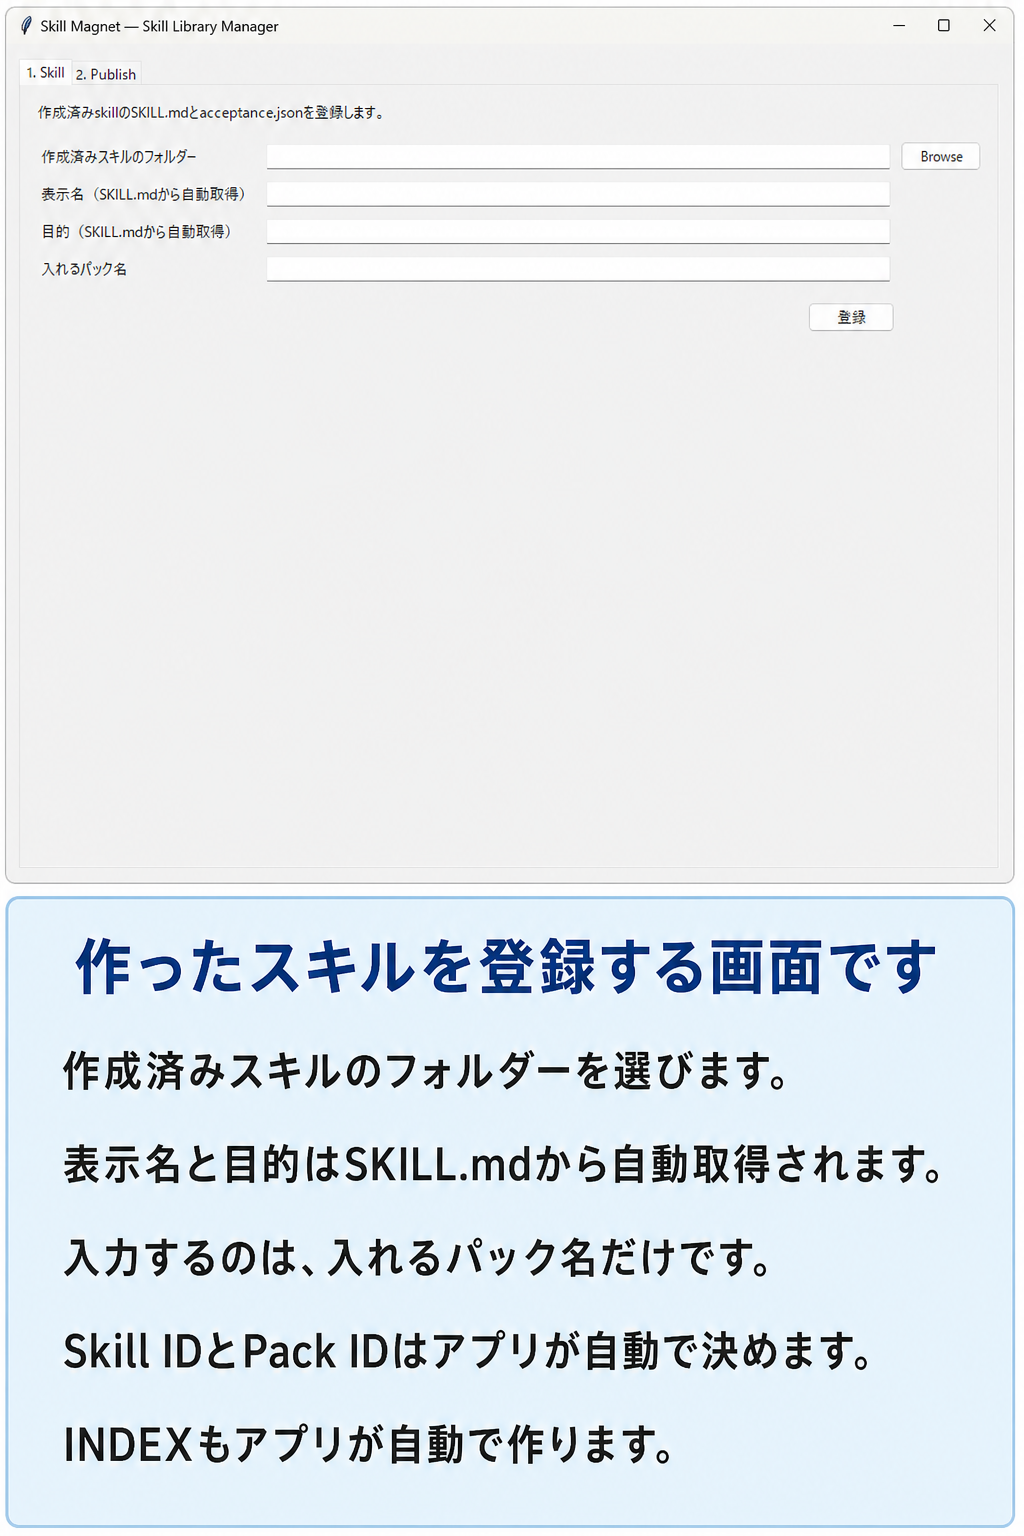
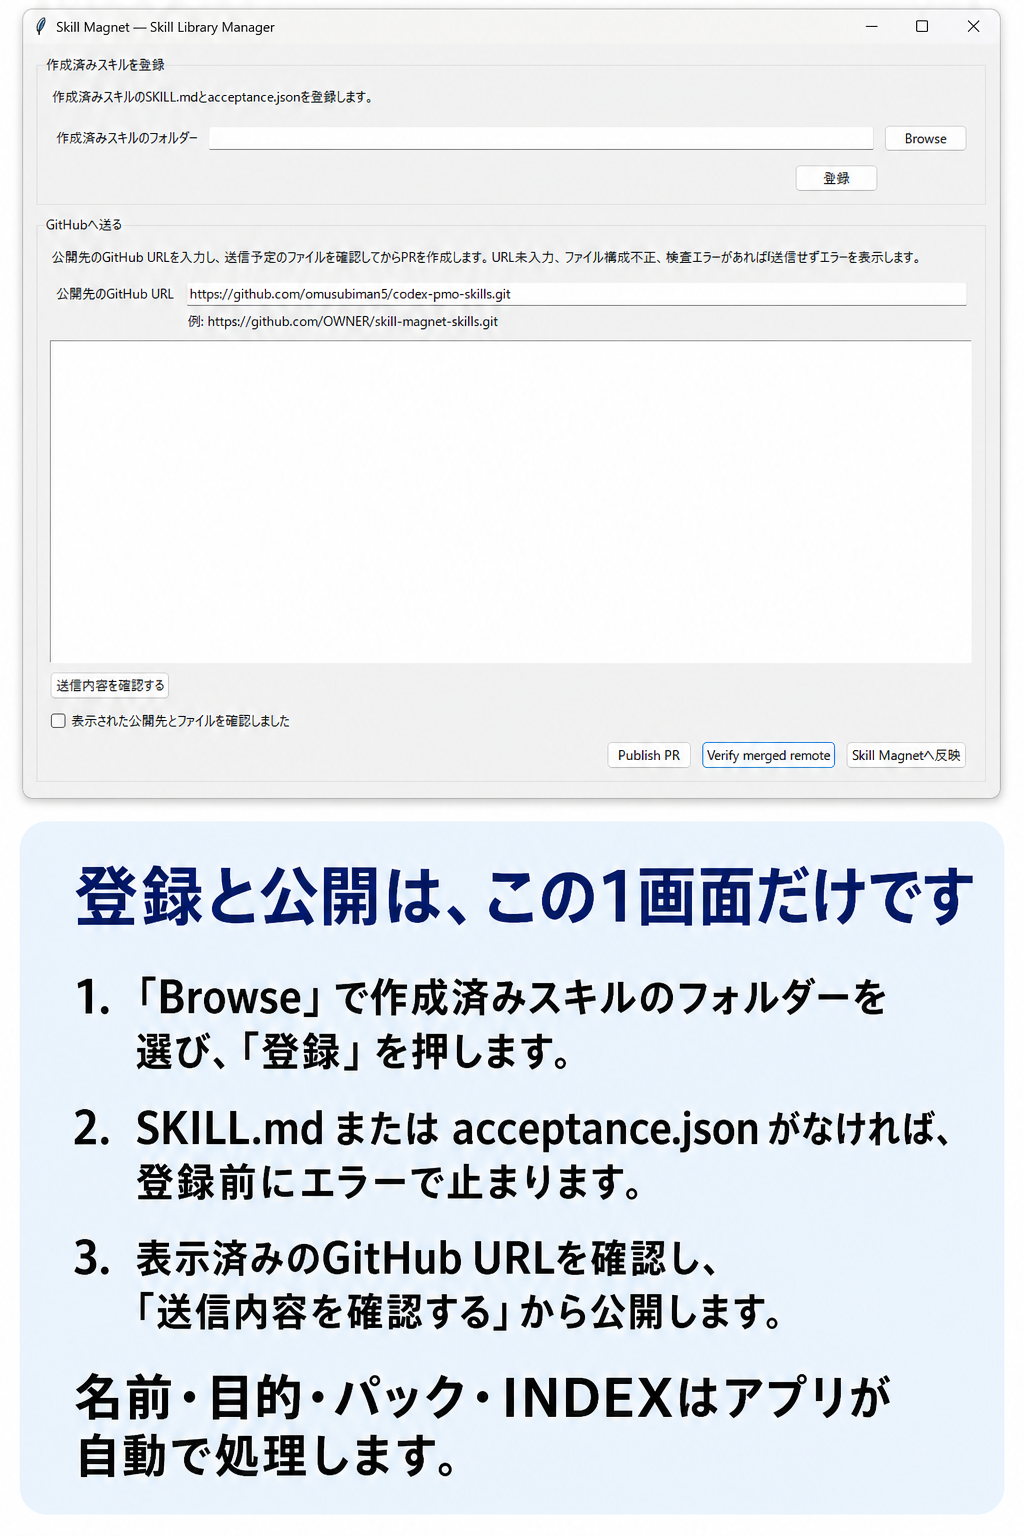
Simplify skill registration to one screen

diff --git a/src/skill_magnet/library_ui.py b/src/skill_magnet/library_ui.py
@@ -1,7 +1,6 @@
 from __future__ import annotations
 
 import json
-import hashlib
 import os
 import re
 from pathlib import Path
@@ -19,8 +18,7 @@ from .library_manager import (
 
 
 LIBRARY_WIZARD_STEPS = (
-    "1. Skill",
-    "2. Publish",
+    "Skill Library Manager",
 )
 
 
@@ -51,8 +49,10 @@ def require_registration_source(value: str) -> Path:
     if not value.strip():
         raise SkillMagnetError("登録する作成済みスキルのフォルダーを選択してください")
     source = Path(value).resolve()
-    if not (source / "SKILL.md").is_file() or not (source / "acceptance.json").is_file():
-        raise SkillMagnetError("選択したフォルダーにはSKILL.mdとacceptance.jsonが必要です")
+    if not (source / "SKILL.md").is_file():
+        raise SkillMagnetError("選択したフォルダーにSKILL.mdがありません")
+    if not (source / "acceptance.json").is_file():
+        raise SkillMagnetError("選択したフォルダーにacceptance.jsonがありません")
     return source
 
 
@@ -70,19 +70,6 @@ def skill_registration_metadata(source: Path) -> tuple[str, str, str]:
     display_name = display_match.group(1).strip() if display_match else skill_id
     purpose = metadata("description") or f"Imported skill: {display_name}"
     return skill_id, display_name, purpose
-
-
-def pack_id_for_display(repository: Path, display_name: str) -> str:
-    """Resolve or derive an internal pack ID without exposing it in the UI."""
-    name = display_name.strip()
-    if not name:
-        raise SkillMagnetError("入れるパック名を入力してください")
-    catalog = json.loads((repository / CATALOG_FILENAME).read_text(encoding="utf-8"))
-    for pack in catalog.get("packs", []):
-        if str(pack.get("display_name", "")).strip() == name:
-            return str(pack["id"])
-    slug = re.sub(r"[^a-z0-9]+", "-", name.lower()).strip("-")
-    return slug or f"pack-{hashlib.sha256(name.encode('utf-8')).hexdigest()[:12]}"
 
 
 def import_selected_skill(repository: Path, source: Path | None) -> bool:
@@ -124,11 +111,10 @@ def show_library_manager(
     root.title("Skill Magnet — Skill Library Manager")
     root.geometry("920x680")
     root.minsize(760, 560)
-    notebook = ttk.Notebook(root)
-    notebook.pack(fill="both", expand=True, padx=12, pady=12)
-    pages = [ttk.Frame(notebook, padding=12) for _ in LIBRARY_WIZARD_STEPS]
-    for title, page in zip(LIBRARY_WIZARD_STEPS, pages, strict=True):
-        notebook.add(page, text=title)
+    page = ttk.Frame(root, padding=12)
+    page.pack(fill="both", expand=True)
+    page.columnconfigure(0, weight=1)
+    page.rowconfigure(1, weight=1)
 
     repository_path = managed_repository_path(state_dir)
     catalog_path = repository_path / CATALOG_FILENAME
@@ -138,10 +124,6 @@ def show_library_manager(
         initialize_library(repository_path, DEFAULT_REPOSITORY_NAME)
     repository = tk.StringVar(value=str(repository_path))
     remote = tk.StringVar(value=configured_repository_url(config_path))
-    skill_id = tk.StringVar()
-    display_name = tk.StringVar()
-    purpose = tk.StringVar()
-    pack_display_name = tk.StringVar()
     import_source = tk.StringVar(
         value=(
             str(initial_repository.resolve())
@@ -169,11 +151,7 @@ def show_library_manager(
         if value:
             try:
                 source = require_registration_source(value)
-                derived_id, derived_name, derived_purpose = skill_registration_metadata(source)
                 import_source.set(str(source))
-                skill_id.set(derived_id)
-                display_name.set(derived_name)
-                purpose.set(derived_purpose)
             except Exception as exc:
                 show_error(exc)
 
@@ -191,43 +169,32 @@ def show_library_manager(
         selected_skill_imported = False
         show_error(exc)
 
-    page = pages[0]
-    ttk.Label(page, text="作成済みskillのSKILL.mdとacceptance.jsonを登録します。").grid(
+    registration = ttk.LabelFrame(page, text="作成済みスキルを登録", padding=10)
+    registration.grid(row=0, column=0, sticky="ew", pady=(0, 10))
+    ttk.Label(registration, text="作成済みスキルのSKILL.mdとacceptance.jsonを登録します。").grid(
         row=0, column=0, columnspan=3, sticky="w", pady=(0, 12)
     )
-    row(page, 1, "作成済みスキルのフォルダー", import_source, select_import)
-    row(page, 2, "表示名（SKILL.mdから自動取得）", display_name)
-    row(page, 3, "目的（SKILL.mdから自動取得）", purpose)
-    row(page, 4, "入れるパック名", pack_display_name)
+    row(registration, 1, "作成済みスキルのフォルダー", import_source, select_import)
 
     def add() -> None:
         try:
             source = require_registration_source(import_source.get())
-            repository_path = require_repository()
-            add_skill(
-                repository_path,
-                skill_id=skill_id.get().strip(),
-                display_name=display_name.get().strip(),
-                purpose=purpose.get().strip(),
-                pack_id=pack_id_for_display(repository_path, pack_display_name.get()),
-                pack_display_name=pack_display_name.get().strip(),
-                skill_source=source,
-            )
+            import_selected_skill(require_repository(), source)
             messagebox.showinfo(
                 "Skill",
                 "スキルを登録し、パック一覧とINDEXを自動更新しました。",
                 parent=root,
             )
-            notebook.hide(0)
-            notebook.select(1)
+            registration.grid_remove()
         except Exception as exc:
             show_error(exc)
 
-    ttk.Button(page, text="登録", command=add).grid(row=5, column=1, sticky="e", pady=12)
+    ttk.Button(registration, text="登録", command=add).grid(
+        row=2, column=1, sticky="e", pady=(8, 0)
+    )
 
     if selected_skill_imported:
-        notebook.hide(0)
-        notebook.select(1)
+        registration.grid_remove()
 
     def set_text(widget: Any, value: Any) -> None:
         widget.configure(state="normal")
@@ -235,25 +202,26 @@ def show_library_manager(
         widget.insert("1.0", json.dumps(value, ensure_ascii=False, indent=2))
         widget.configure(state="disabled")
 
-    page = pages[1]
+    publish_frame = ttk.LabelFrame(page, text="GitHubへ送る", padding=10)
+    publish_frame.grid(row=1, column=0, sticky="nsew")
     ttk.Label(
-        page,
+        publish_frame,
         text=(
             "公開先のGitHub URLを入力し、送信予定のファイルを確認してからPRを作成します。"
             "URL未入力、ファイル構成不正、検査エラーがあれば送信せずエラーを表示します。"
         ),
         wraplength=820,
     ).grid(row=0, column=0, columnspan=3, sticky="w", pady=(0, 8))
-    row(page, 1, "公開先のGitHub URL", remote)
+    row(publish_frame, 1, "公開先のGitHub URL", remote)
     ttk.Label(
-        page,
+        publish_frame,
         text="例: https://github.com/OWNER/skill-magnet-skills.git",
         wraplength=720,
     ).grid(row=2, column=1, columnspan=2, sticky="w", padx=4, pady=(0, 8))
-    preview_output = tk.Text(page, wrap="word", state="disabled")
+    preview_output = tk.Text(publish_frame, wrap="word", state="disabled")
     preview_output.grid(row=3, column=0, columnspan=3, sticky="nsew")
-    page.rowconfigure(3, weight=1)
-    page.columnconfigure(1, weight=1)
+    publish_frame.rowconfigure(3, weight=1)
+    publish_frame.columnconfigure(1, weight=1)
 
     def prepare() -> None:
         try:
@@ -269,14 +237,14 @@ def show_library_manager(
         except Exception as exc:
             show_error(exc)
 
-    ttk.Button(page, text="送信内容を確認する", command=prepare).grid(
-        row=4, column=0, sticky="w", pady=8
+    ttk.Button(publish_frame, text="送信内容を確認する", command=prepare).grid(
+        row=4, column=0, sticky="w", pady=(8, 4)
     )
     ttk.Checkbutton(
-        page,
+        publish_frame,
         text="表示された公開先とファイルを確認しました",
         variable=publish_confirmed,
-    ).grid(row=4, column=1, sticky="e", pady=8)
+    ).grid(row=5, column=0, columnspan=3, sticky="w", pady=4)
 
     def transaction() -> LibraryTransaction:
         if not transaction_id.get().strip():
@@ -324,8 +292,8 @@ def show_library_manager(
         except Exception as exc:
             show_error(exc)
 
-    buttons = ttk.Frame(page)
-    buttons.grid(row=4, column=2, sticky="e", pady=8)
+    buttons = ttk.Frame(publish_frame)
+    buttons.grid(row=6, column=0, columnspan=3, sticky="e", pady=(4, 0))
     ttk.Button(buttons, text="Publish PR", command=publish).pack(side="left", padx=4)
     ttk.Button(buttons, text="Verify merged remote", command=verify_merged).pack(side="left", padx=4)
     ttk.Button(buttons, text="Skill Magnetへ反映", command=activate).pack(side="left", padx=4)

diff --git a/tests/test_library_manager.py b/tests/test_library_manager.py
@@ -22,7 +22,6 @@ from skill_magnet.library_ui import (
     import_selected_skill,
     library_wizard_steps,
     managed_repository_path,
-    pack_id_for_display,
     require_registration_source,
     skill_registration_metadata,
 )
@@ -60,14 +59,24 @@ class LibraryManagerTests(unittest.TestCase):
             skill_registration_metadata(source),
             ("sample-skill", "Sample skill", "Sample purpose"),
         )
-        self.assertEqual(pack_id_for_display(repository, "My Skills"), "my-skills")
-        self.assertTrue(pack_id_for_display(repository, "日本語").startswith("pack-"))
+        missing_skill = self.root / "missing-skill"
+        missing_skill.mkdir()
+        (missing_skill / "acceptance.json").write_text("{}", encoding="utf-8")
+        with self.assertRaisesRegex(SkillMagnetError, "SKILL.md"):
+            require_registration_source(str(missing_skill))
+        missing_acceptance = self.root / "missing-acceptance"
+        missing_acceptance.mkdir()
+        (missing_acceptance / "SKILL.md").write_text(
+            "---\nname: missing-acceptance\ndescription: Missing acceptance\n---\n\n# Missing acceptance\n",
+            encoding="utf-8",
+        )
+        with self.assertRaisesRegex(SkillMagnetError, "acceptance.json"):
+            require_registration_source(str(missing_acceptance))
 
         self.assertTrue(import_selected_skill(repository, source))
         catalog = json.loads((repository / CATALOG_FILENAME).read_text(encoding="utf-8"))
         self.assertEqual(catalog["packs"][0]["id"], "custom-skills")
         self.assertEqual(catalog["packs"][0]["skills"], ["sample-skill"])
-        self.assertEqual(pack_id_for_display(repository, "Custom skills"), "custom-skills")
         self.assertTrue((repository / "sample-skill" / "SKILL.md").is_file())
 
     def test_existing_repository_url_is_prefilled_when_unambiguous(self) -> None:
@@ -358,9 +367,7 @@ class LibraryManagerTests(unittest.TestCase):
         self.assertEqual(transaction.status(config)["status"], "published_but_inactive")
 
     def test_cli_exposes_guided_library_flow(self) -> None:
-        self.assertEqual(len(library_wizard_steps()), 2)
-        self.assertEqual(library_wizard_steps()[0], "1. Skill")
-        self.assertEqual(library_wizard_steps()[1], "2. Publish")
+        self.assertEqual(library_wizard_steps(), ("Skill Library Manager",))
         library = self.root / "cli-library"
         self.assertEqual(
             cli_main(["library", "init", "--repository", str(library)]), 0

diff --git a/docs/skill-library-manager-implementation-report-2026-09-02.md b/docs/skill-library-manager-implementation-report-2026-09-02.md
@@ -11,7 +11,7 @@ status: implemented
 
 ## 結論
 
-`skill-library-management-requirements.md`のFR-1〜FR-22を、共通domain層、通常1画面・最大2画面のGUI、右クリック入口、CLI、Git transaction、atomic activation、status/receipt、回帰試験として実装した。skill repositoryは特定skill名に結び付けず、既定名を`skill-magnet-skills`とした。
+`skill-library-management-requirements.md`のFR-1〜FR-22を、共通domain層、タブのない1画面GUI、右クリック入口、CLI、Git transaction、atomic activation、status/receipt、回帰試験として実装した。skill repositoryは特定skill名に結び付けず、既定名を`skill-magnet-skills`とした。
 
 公開処理は、draft検証 → isolated clone → staged blob preview → 明示確認 → non-force push/PR → remote Git blob再取得とSHA-256照合 → 明示確認 → config/menu有効化、という二段階transactionになった。remote検証前は現在のconfigを変更せず、menu更新失敗時はconfigをbyte単位で直前版へ戻す。同じtransaction IDの再実行は既存commit、push、activation receiptを再利用し、重複操作を行わない。
 
@@ -23,11 +23,10 @@ status: implemented
 - macOS Finderではクイックアクション`Skill Magnet`の共通画面内にある`Skill Library Manager`から開く。
 - GUIの作業用repositoryは製品state内で自動作成・再利用し、保存先、repository名、`Draft directory`を入力させない。右クリックしたfolderに`SKILL.md`がある場合だけskill import候補へ事前入力する。画面を開くだけではpublishもactivateも実行しない。
 - `python -m skill_magnet library ui`でコンパクトなSkill Library Managerを開く。
-- 標準構成の作成済みスキルfolderを右クリックした通常flowでは自動import後にPublishだけを表示する。作成済みskillを手動登録する時だけSkill、Publishの2画面とする。repository、catalog/INDEX、validation、preview、activationの独立画面は設けず、起動・登録・Publish画面内で処理する。
+- 登録とGitHub公開をタブのない1画面へ統合した。標準構成の作成済みスキルfolderを右クリックした場合は自動importして登録欄を隠し、手動登録時だけ同じ画面上部へfolder欄を表示する。repository、catalog/INDEX、validation、preview、activationの独立画面は設けない。
 - OSは実行環境から自動判定し、利用者へ選択させない。構成不備、URL不備、validation失敗は操作時のエラーダイアログで停止する。
 - 現在の設定にrepository URLが一意に存在する既存ユーザーには、そのURLをPublish画面へ自動表示する。複数候補は誤選択防止のため自動補完しない。
-- Skill ID入力欄を廃止し、`SKILL.md`の`name`またはfolder名から内部キーを自動決定する。表示名と目的も選択した`SKILL.md`から自動入力する。
-- Pack ID入力欄も廃止し、利用者が指定するpack表示名から既存IDの再利用または内部IDの自動生成を行う。
+- 手動登録画面の入力を作成済みskill folderだけにした。Skill ID、表示名、目的は`SKILL.md`から自動取得し、packはアプリ管理の`Custom skills`を使う。`SKILL.md`または`acceptance.json`がなければ登録処理前に停止する。
 - headless/運用用途として`init`、`add`、`validate`、`prepare`、`publish`、`verify-merged`、`activate`、`status`も提供する。
 - publishとactivateは独立した明示確認が必要で、未確認ならfail-closedで停止する。
 
@@ -66,7 +65,7 @@ status: implemented
 | FR-2 | catalogの複数pack/skill model | add/publish E2E |
 | FR-3 | machine-readable catalog schema v1 | catalog validation/manifest test |
 | FR-4 | 既存directory接続、既存名維持、remote default branch読取 | GUI connect、prepare E2E |
-| FR-5 | GUI/CLI create・import | CLI flow test |
+| FR-5 | GUIは作成済みskill folderだけを受け取り、metadataを自動取得。CLIは運用向けimportを提供 | folder-only UI、必須file不足test、CLI flow test |
 | FR-6 | path/symlink/secret/frontmatter/trigger/boundary/acceptance検証 | negative tests |
 | FR-7 | pack ID指定で既存追加／新規作成 | add round-trip test |
 | FR-8 | 3 relation、unknown/cycle/contrast検証 | relation negative tests |
@@ -94,7 +93,7 @@ status: implemented
 | File | 内容 |
 |---|---|
 | `src/skill_magnet/library_manager.py` | catalog、validation、publish transaction、activation、status、receipt |
-| `src/skill_magnet/library_ui.py` | 通常1画面・最大2画面GUI、OS自動判定 |
+| `src/skill_magnet/library_ui.py` | タブのない1画面GUI、OS自動判定 |
 | `src/skill_magnet/cli.py` | `library` command群とGUI入口 |
 | `src/skill_magnet/platforms.py` | Explorer/Finder右クリックmanager actionと状態契約 |
 | `src/skill_magnet/ui.py` | Finder共通画面からmanager GUIへの遷移 |
@@ -115,7 +114,7 @@ status: implemented
 | `python -m unittest discover -s tests` | 152 PASS、1 environment-dependent skip |
 | `python -m pip wheel . --no-deps` | PASS、`library_manager.py`と`library_ui.py`のwheel収録を確認 |
 | `git diff --check` | PASS |
-| 実GUIスモーク | PASS、標準folder選択時にPublishだけ、作成済みskillの手動登録時にSkillとPublishを表示 |
+| 実GUIスモーク | PASS、登録と公開を同じ画面に表示し、標準folder選択時は登録欄を非表示 |
 
 自動試験ではローカルbare Git remoteを用い、isolated clone、commit、direct push、別cloneからのremote blob検証、config activation、retry、menu failure rollbackまで実行した。GitHub PR経路は`gh pr create`／`gh pr view`へ接続済みであり、実repositoryでは既存GitHub credentialとbranch protectionが最終権限境界になる。
 
